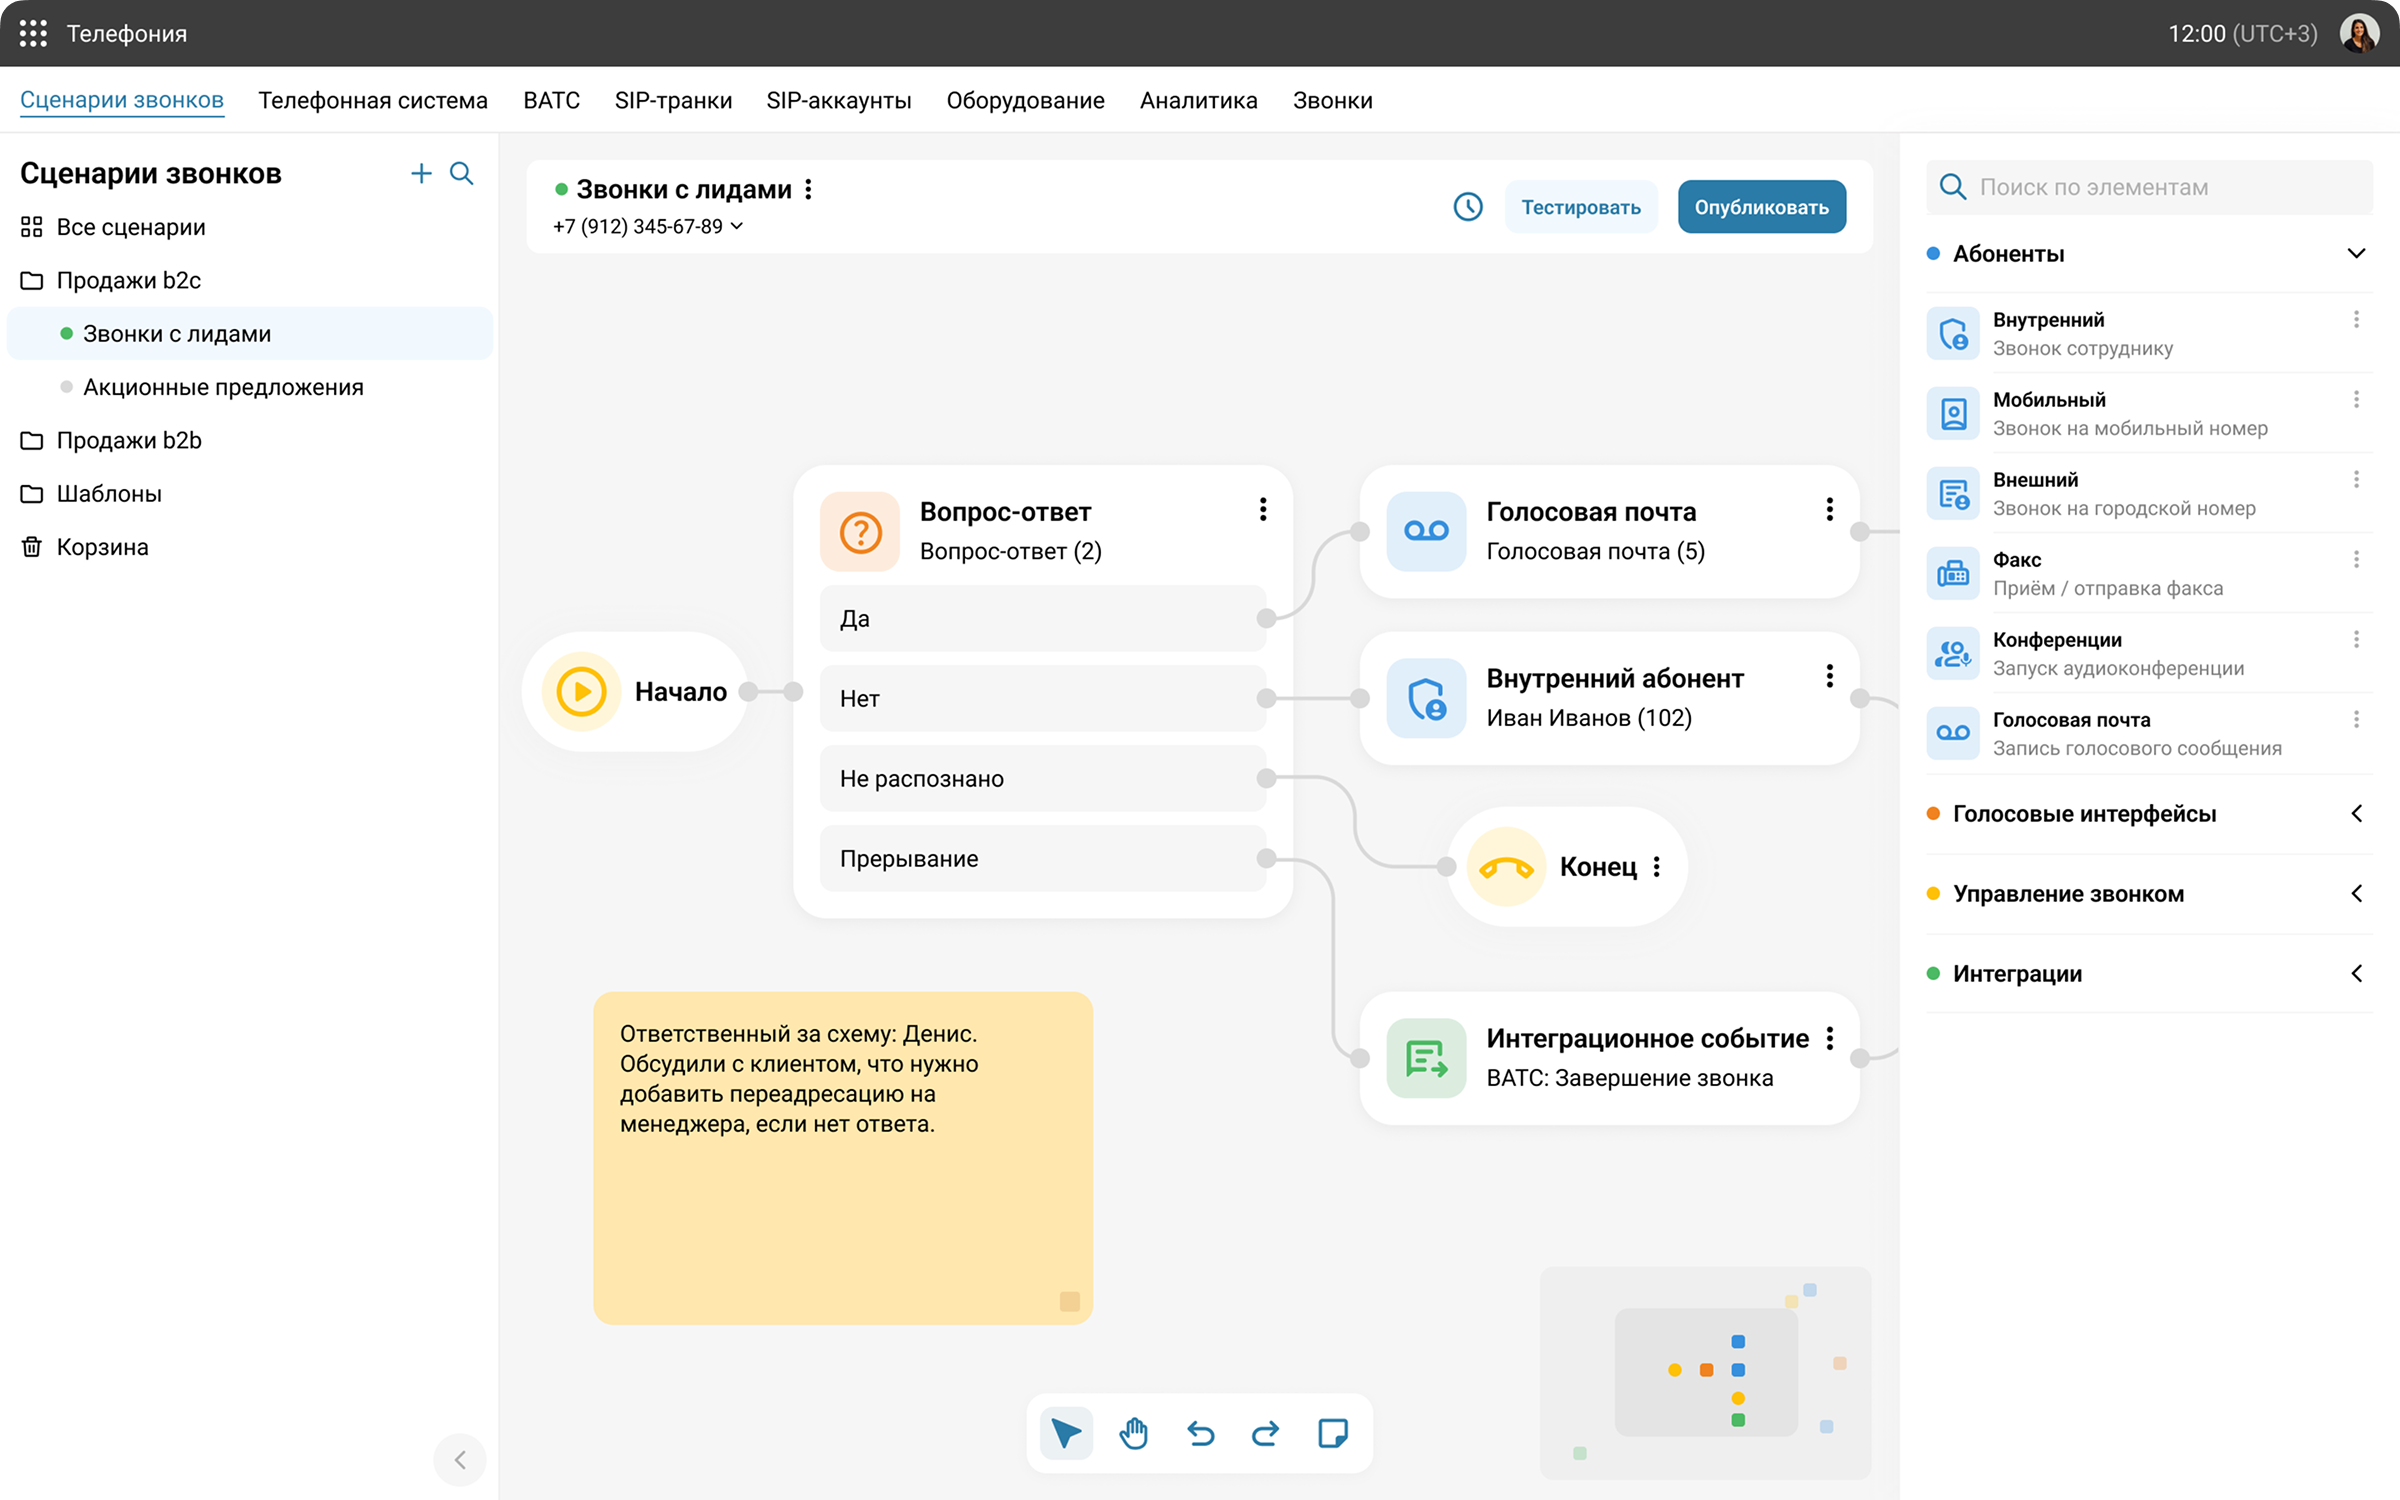
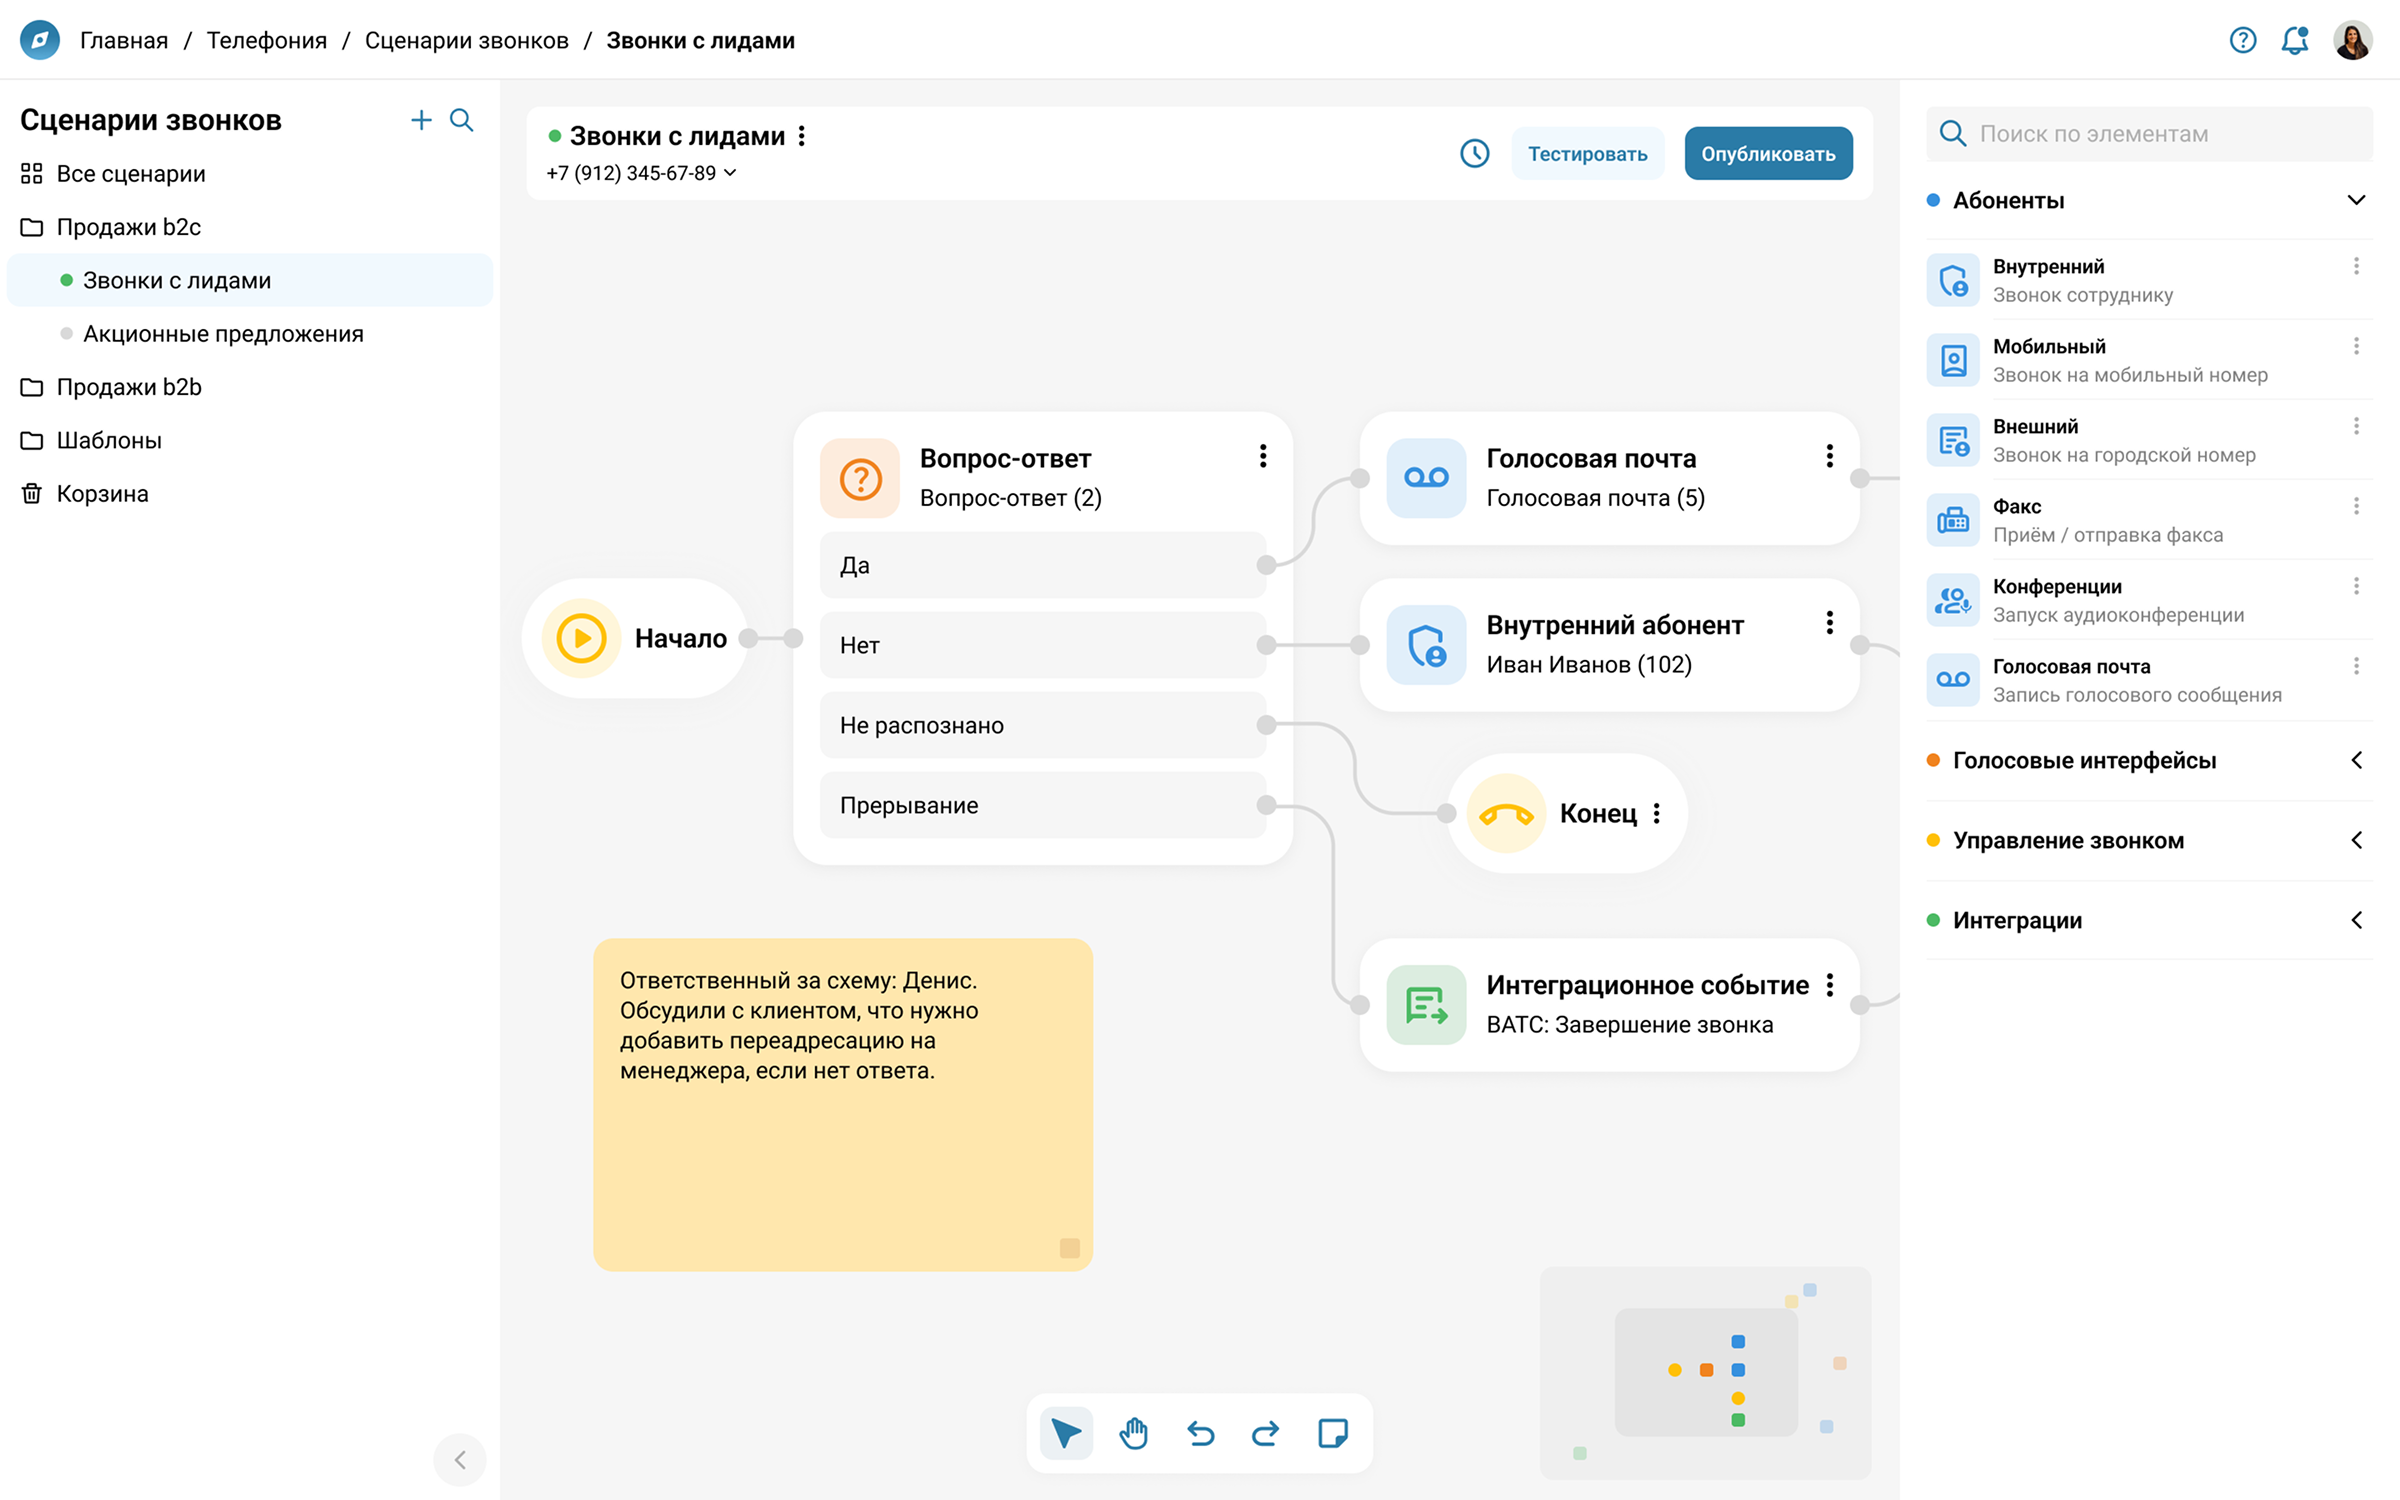
Update work hero and design cards

diff --git a/src/components/work-case-page.tsx b/src/components/work-case-page.tsx
@@ -480,7 +480,7 @@ export function WorkCasePage() {
           </div>
 
           <div className="flex flex-col gap-2 md:grid md:grid-cols-3 md:gap-2">
-            <div className="grid h-[300px] grid-rows-[38px_66px_118px] content-start gap-4 rounded-[20px] bg-[#262626] py-6 pl-6 pr-5 md:w-full md:min-w-0">
+            <div className="flex h-[300px] flex-col rounded-[20px] bg-[#262626] p-6 md:w-full md:min-w-0">
               <div className="flex items-center gap-3">
                 <div className="flex h-8 w-8 items-center justify-center rounded-full bg-[#ff8566] text-[18px] font-semibold leading-[160%] text-white">
                   1
@@ -490,17 +490,18 @@ export function WorkCasePage() {
                   <p className="text-[14px] leading-[17px] text-[#828282]">Понять сценарий</p>
                 </div>
               </div>
-              <p className="text-[14px] leading-[160%] text-white">
+              <p className="mt-5 text-[14px] leading-[160%] text-white">
                 Пользователь должен быстро считать структуру сценария и понять, как он работает.
               </p>
-              <div className="flex h-[118px] flex-col gap-1 text-[14px] leading-[160%] text-white">
+              <div className="my-4 h-px w-full bg-[#3A3A3A]" />
+              <div className="flex flex-col gap-1 text-[14px] leading-[160%] text-white">
                 <p>• Визуальная иерархия</p>
                 <p>• Группировка и понятные названия блоков</p>
                 <p>• Создание или выбор готовых элементов на схеме</p>
               </div>
             </div>
 
-            <div className="grid h-[300px] grid-rows-[38px_66px_118px] content-start gap-4 rounded-[20px] bg-[#262626] py-6 pl-6 pr-5 md:w-full md:min-w-0">
+            <div className="flex h-[300px] flex-col rounded-[20px] bg-[#262626] p-6 md:w-full md:min-w-0">
               <div className="flex items-center gap-3">
                 <div className="flex h-8 w-8 items-center justify-center rounded-full bg-[#ff8566] text-[18px] font-semibold leading-[160%] text-white">
                   2
@@ -510,18 +511,19 @@ export function WorkCasePage() {
                   <p className="text-[14px] leading-[17px] text-[#828282]">Внести изменения</p>
                 </div>
               </div>
-              <p className="text-[14px] leading-[160%] text-white">
+              <p className="mt-5 text-[14px] leading-[160%] text-white">
                 Изменения должны вноситься прямо в потоке — без лишних переходов и потери
                 контекста.
               </p>
-              <div className="flex h-[118px] flex-col gap-1 text-[14px] leading-[160%] text-white">
+              <div className="my-4 h-px w-full bg-[#3A3A3A]" />
+              <div className="flex flex-col gap-1 text-[14px] leading-[160%] text-white">
                 <p>• Inline-редактирование блоков</p>
                 <p>• Единый контекст между схемой и настройками</p>
                 <p>• Массовые операции с блоками и переходами</p>
               </div>
             </div>
 
-            <div className="grid h-[300px] grid-rows-[38px_66px_118px] content-start gap-4 rounded-[20px] bg-[#262626] py-6 pl-6 pr-5 md:w-full md:min-w-0">
+            <div className="flex h-[300px] flex-col rounded-[20px] bg-[#262626] p-6 md:w-full md:min-w-0">
               <div className="flex items-center gap-3">
                 <div className="flex h-8 w-8 items-center justify-center rounded-full bg-[#ff8566] text-[18px] font-semibold leading-[160%] text-white">
                   3
@@ -531,10 +533,11 @@ export function WorkCasePage() {
                   <p className="text-[14px] leading-[17px] text-[#828282]">Проверить</p>
                 </div>
               </div>
-              <p className="text-[14px] leading-[160%] text-white">
+              <p className="mt-5 text-[14px] leading-[160%] text-white">
                 Пользователь должен убедиться, что изменения работают без ошибок.
               </p>
-              <div className="flex h-[118px] flex-col gap-1 text-[14px] leading-[160%] text-white">
+              <div className="my-4 h-px w-full bg-[#3A3A3A]" />
+              <div className="flex flex-col gap-1 text-[14px] leading-[160%] text-white">
                 <p>• Статусы для сценариев (черновик / опубликовано)</p>
                 <p>• Тестирование до публикации</p>
                 <p>• История версий с возможностью отката</p>
